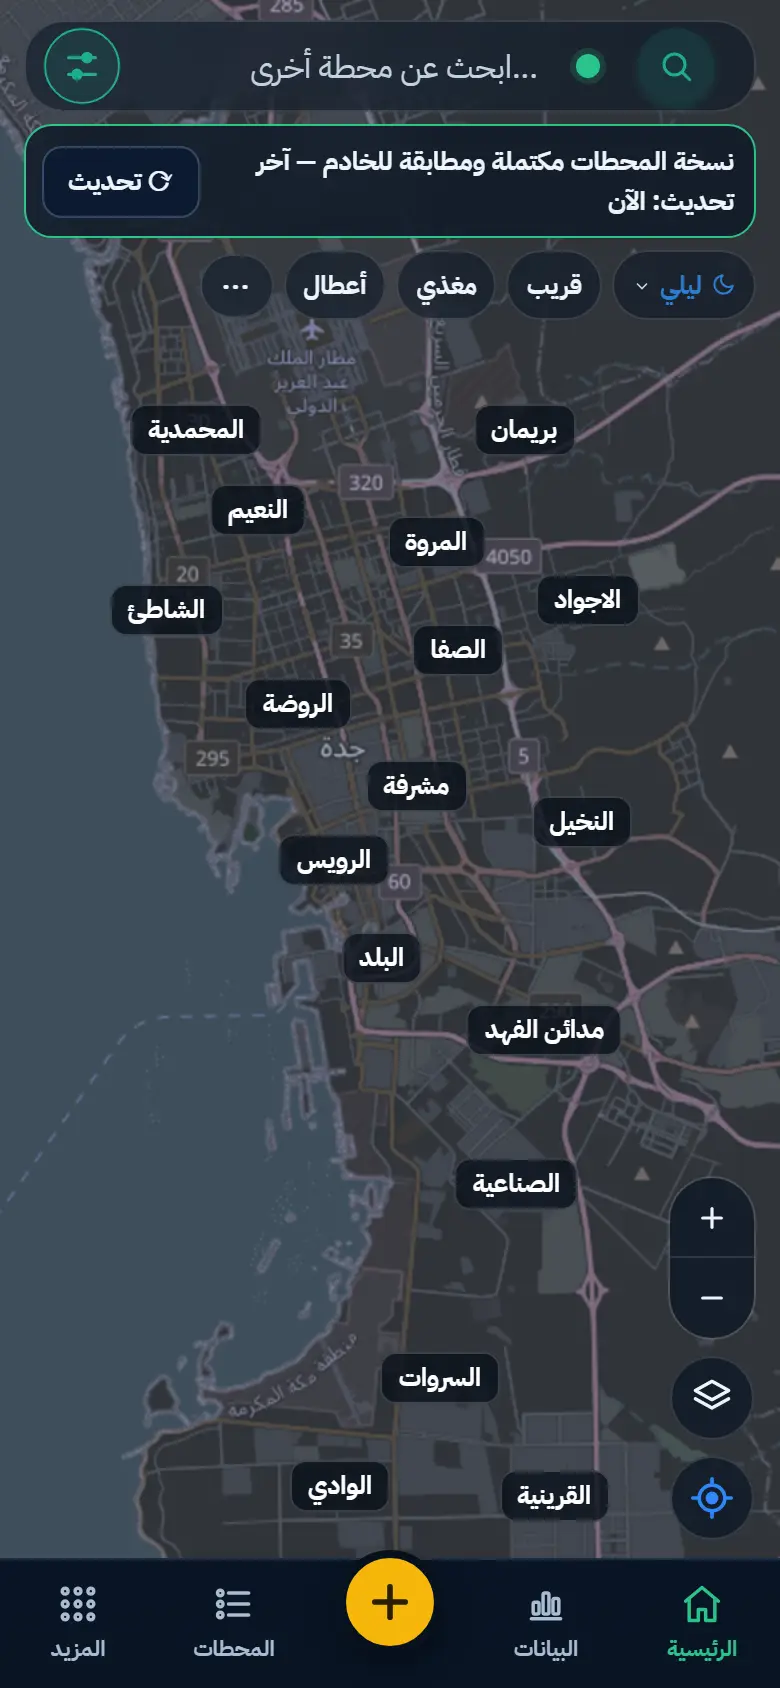
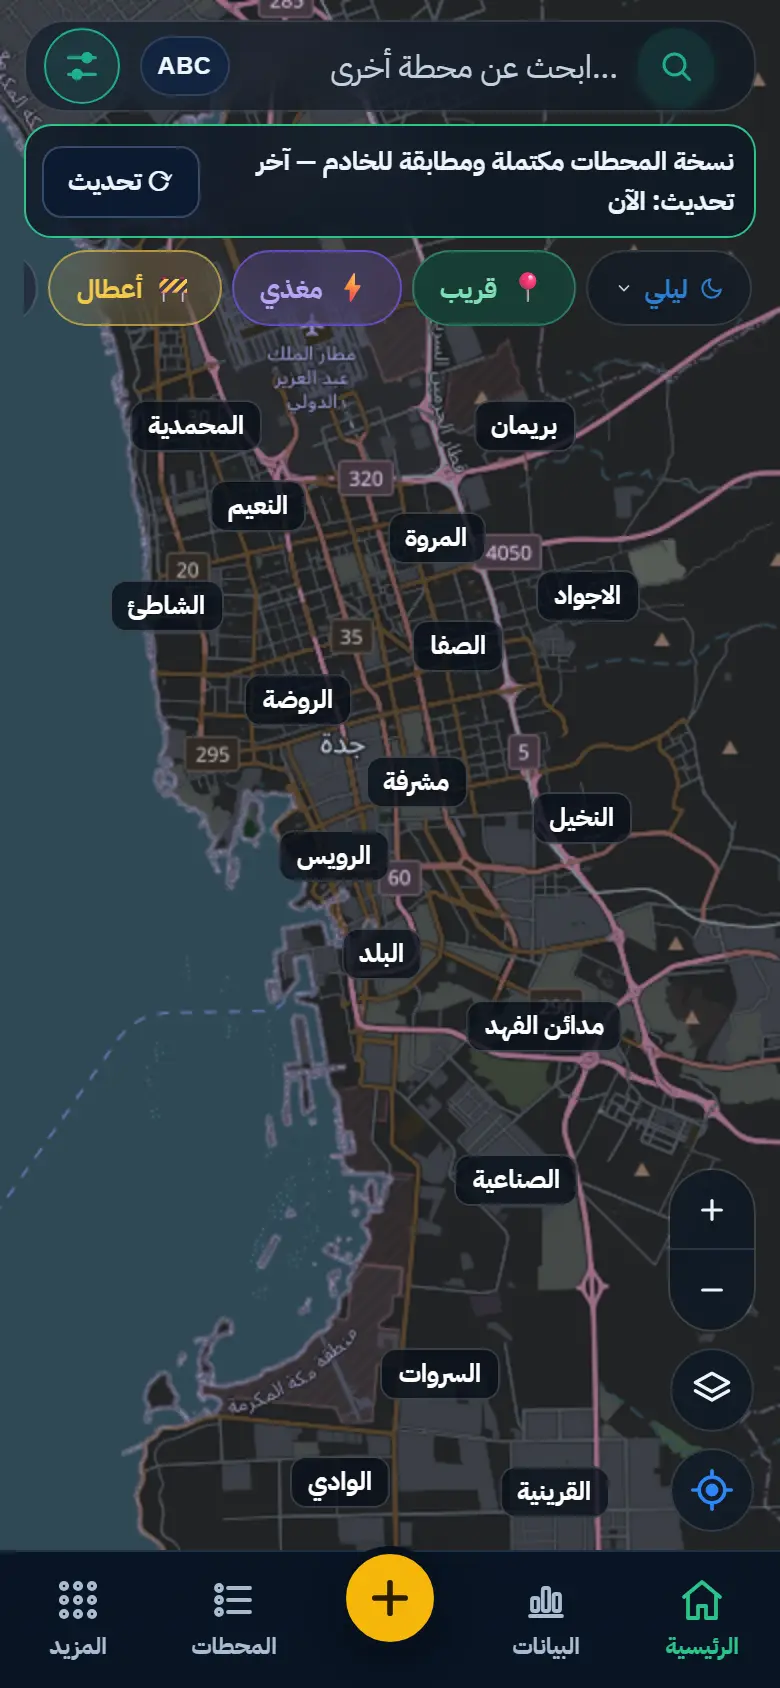
الجولة التعريفية: إعادة تصوير الشرائح الـ25 بعد تعديلات 22 أكتوبر، وسطر لوحة الأرقام وزر «ABC / 123» في شريحة وضع البحث

diff --git a/config/جولة_تعريفية.js b/config/جولة_تعريفية.js
@@ -36,20 +36,20 @@
         text: 'إذا انقطع الإنترنت تتحول البطاقة إلى الأحمر وتذكر آخر وقت حُدّثت فيه نسختك — والبحث والخريطة والملاحة تعمل منها.\nوإن لم تكن على الجهاز نسخة تقول ذلك صراحة: «لا توجد نسخة ولا يوجد إنترنت».' },
       { img: 'assets/tour/07-search-mode.webp', rect: { x: 12, y: 10, w: 366, h: 46 },
         title: '🔍 وضع البحث: الخريطة بكامل الشاشة',
-        text: 'عند لمس مربع البحث أو فتح محطة تتمدد الخريطة حتى أعلى الشاشة ويبقى الشريط السفلي للتنقل (يختفي في الملاحة وحدها)، والمحطة في منتصف الجزء الظاهر.\nوزر × في مربع البحث (أو زر الرجوع في الجوال) يعيد الوضع العادي فورًا.' },
-      { img: 'assets/tour/08-search-server.webp', rect: { x: 101, y: 748, w: 270, h: 17 },
+        text: 'عند لمس مربع البحث أو فتح محطة تتمدد الخريطة حتى أعلى الشاشة ويبقى الشريط السفلي للتنقل (يختفي في الملاحة وحدها)، والمحطة في منتصف الجزء الظاهر.\nتفتح لوحة الأرقام مباشرة، وزر «ABC» بجانب الحقل يحوّلها للحروف لمحطات التحويل (و«123» يرجعها)، ويتذكر الجوال اختيارك.\nوزر × في مربع البحث (أو زر الرجوع في الجوال) يعيد الوضع العادي فورًا.' },
+      { img: 'assets/tour/08-search-server.webp', rect: { x: 91, y: 686, w: 280, h: 15 },
         title: '⏱ البحث قبل تحميل النسخة',
         text: 'قبل اكتمال النسخة يذهب البحث إلى الخادم وينتظر رده — وتظهر المدة الفعلية ومصدرها «الخادم» في بطاقة المحطة.\nوبدون إنترنت لا يمكن البحث قبل تحميل النسخة.' },
-      { img: 'assets/tour/09-search-local.webp', rect: { x: 193, y: 748, w: 179, h: 17 },
+      { img: 'assets/tour/09-search-local.webp', rect: { x: 193, y: 682, w: 179, h: 17 },
         title: '⚡ البحث بعد تحميل النسخة',
         text: 'بعد التحميل تظهر النتيجة من جهازك في جزء من الألف من الثانية — «⚡ … ث · جهازك» في بطاقة المحطة — حتى بدون إنترنت.\nوالنسخة تتحدث تلقائيًا بتغييرات الزملاء.' },
-      { img: 'assets/tour/10-station-sheet.webp', rect: { x: 8, y: 674, w: 374, h: 160 }, point: { x: 101, y: 741, w: 84, h: 30 },
+      { img: 'assets/tour/10-station-sheet.webp', rect: { x: 8, y: 608, w: 374, h: 160 }, point: { x: 101, y: 675, w: 84, h: 30 },
         title: '📍 بطاقة المحطة',
         text: 'جدول «المحطة | المنطقة | المغذي»، ثم مدة البحث وعدد محطات المغذي و«التفاصيل»، ثم أزرار الملاحة وقوقل ماب والمشاركة والتعديل.\nاضغط عدد محطات المغذي لتظهر كلها على الخريطة.' },
-      { img: 'assets/tour/11-nearby-map.webp', rect: { x: 8, y: 774, w: 374, h: 60 },
+      { img: 'assets/tour/11-nearby-map.webp', rect: { x: 8, y: 708, w: 374, h: 60 },
         title: '📍 «قريب»: المحطات حول المحطة المبحوث عنها',
         text: 'زر «قريب» في صف الأدوات يُظهر المحطات ضمن 1.5 كم من المحطة التي بحثت عنها: الخضراء حتى 1 كم، والرمادية حتى 1.5 كم، مع حلقتين خافتتين.\nعلى كل محطة رقمها ومسافتها، وكل محطة في موقعها الحقيقي، و«إنهاء العرض» في البطاقة يعيدك.' },
-      { img: 'assets/tour/12-feeder-map.webp', rect: { x: 8, y: 774, w: 374, h: 60 },
+      { img: 'assets/tour/12-feeder-map.webp', rect: { x: 8, y: 708, w: 374, h: 60 },
         title: '⚡ «مغذي»: كل محطات المغذي',
         text: 'زر «مغذي» يُظهر محطات المغذي نفسه وحدها، ويكتب اسم المغذي على الزر وعدد محطاته في البطاقة.\nاسحب الخريطة لترى محطاته البعيدة، وكبّر لتظهر أرقامها.' },
       { img: 'assets/tour/13-details-info.webp', rect: { x: 16, y: 129, w: 358, h: 136 },
@@ -61,16 +61,16 @@
       { img: 'assets/tour/15-details-near.webp', rect: { x: 16, y: 275, w: 358, h: 46 },
         title: '📡 تفاصيل المحطة: المحطات القريبة',
         text: 'جدول المحطات ضمن 2 كم من المحطة، الأقرب أولًا مع المسافة.\nوفي أوله بحث بالرقم أو المنطقة أو المغذي، والضغط على أي محطة يفتحها على الخريطة.' },
-      { img: 'assets/tour/16-nearby-list.webp', rect: { x: 16, y: 129, w: 358, h: 639 },
+      { img: 'assets/tour/16-nearby-list.webp', rect: { x: 16, y: 129, w: 358, h: 635 },
         title: '📡 المحطات القريبة من موقعك',
         text: 'من «المحطات» في الشريط السفلي اضغط «تحديد موقعي»: تظهر المحطات حولك، الأقرب أولًا، مع المسافة.\nو«التصفية» تختار النوع والحي ونطاق البحث بالكيلومتر.' },
-      { img: 'assets/tour/17-outages-input.webp', rect: { x: 16, y: 455, w: 358, h: 285 }, point: { x: 261, y: 455, w: 113, h: 96 },
+      { img: 'assets/tour/17-outages-input.webp', rect: { x: 16, y: 374, w: 358, h: 285 }, point: { x: 261, y: 374, w: 113, h: 96 },
         title: '⚡ بحث الأعطال: أرقام عدة محطات',
         text: 'في «البيانات» اضغط بطاقة «الأعطال»، فتظهر تحتها خانة الأرقام.\nاكتب أرقام المحطات التي فيها العطل (حتى 15 محطة) وافصل بينها بمسافة أو فاصلة، ثم اضغط بحث.' },
-      { img: 'assets/tour/18-outages-map.webp', rect: { x: 106, y: 204, w: 178, h: 33 },
+      { img: 'assets/tour/18-outages-map.webp', rect: { x: 106, y: 207, w: 178, h: 33 },
         title: '🗺 نتيجة بحث الأعطال على الخريطة',
         text: 'تظهر المحطات بالأحرف A ثم B ثم C بترتيب كتابتك، مع خط يربطها.\nوزر «الانتقال بالترتيب على قوقل ماب» يفتح مسارًا جاهزًا يمر بها كلها.' },
-      { img: 'assets/tour/19-ruler.webp', rect: { x: 12, y: 168, w: 366, h: 96 },
+      { img: 'assets/tour/19-ruler.webp', rect: { x: 12, y: 125, w: 366, h: 40 }, point: { x: -63, y: 125, w: 83, h: 38 },
         title: '📐 قياس المسافة على الخريطة',
         text: 'من صف الأدوات اضغط «📐 قياس» (الصف يتمرر أفقيًا بكل الأدوات، وأيقونة الضبط في طرف مربع البحث تطويه وتظهره).\nثم اضغط على نقطتين أو أكثر في الخريطة، فيظهر طول كل جزء والمسافة الإجمالية.' },
       { img: 'assets/tour/20-nav-online.webp', rect: { x: 0, y: 708, w: 390, h: 136 },
@@ -88,7 +88,7 @@
       { img: 'assets/tour/24-dashboard.webp', rect: { x: 16, y: 289, w: 358, h: 164 },
         title: '📊 «البيانات»: أرقام المحطات',
         text: 'في «البيانات»: محطات التوزيع، ومحطات التحويل، والإجمالي، وعمليات اليوم — و«إضافة وتعديل اليوم حسب النوع» عند الضغط.\nوفيها أيضًا الأعطال وآخر المحطات وتحديث الأرقام.' },
-      { img: 'assets/tour/25-bottom-nav.webp', rect: { x: 0, y: 779, w: 390, h: 65 },
+      { img: 'assets/tour/25-bottom-nav.webp', rect: { x: 0, y: 775, w: 390, h: 69 },
         title: '🧭 الشريط السفلي: كل الموقع بضغطة',
         text: 'الرئيسية (الخريطة)، والبيانات، والمحطات، والمزيد، وزر ＋ الأصفر في الوسط لإضافة محطة — ويختفي أثناء البحث والملاحة لتملأ الخريطة الشاشة.\nيمكنك إعادة هذه الجولة في أي وقت من «المزيد» ← «الجولة التعريفية».' }
     ]
